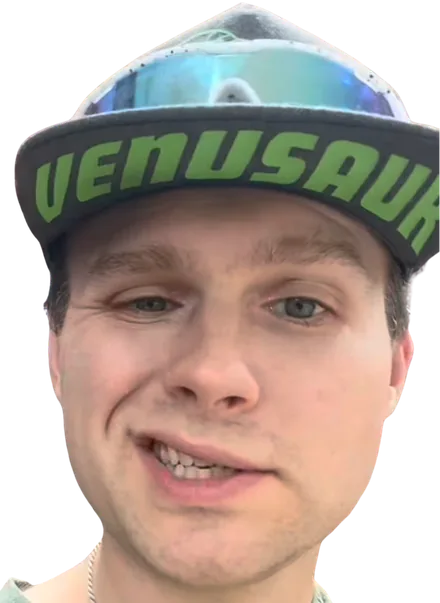
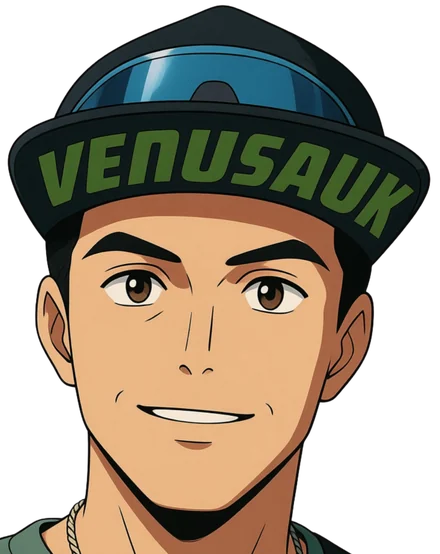
Replace the two character photos with illustrated portraits
Claude-Session: https://claude.ai/code/session_019cwhTVzQYA9Wonu8q4K8cg

diff --git a/web/styles.css b/web/styles.css
@@ -332,8 +332,8 @@ details.points td:last-child { text-align: right; font-weight: 600; }
 .cta svg { width: 18px; height: 18px; fill: none; stroke: currentColor; stroke-width: 2.2; stroke-linecap: round; stroke-linejoin: round; }
 .cta:active { transform: scale(.985); }
 .guide { position: fixed; z-index: 25; left: 50%; bottom: calc(52px + env(safe-area-inset-bottom)); width: min(100%, 640px); height: 290px; transform: translateX(-50%); overflow: hidden; pointer-events: none; }
-.guide img { position: absolute; right: 4px; bottom: -40px; width: 168px; height: auto; transform: translateY(105%) rotate(9deg); transform-origin: 60% 100%; transition: transform .28s cubic-bezier(.5,0,.8,.4); filter: drop-shadow(0 6px 14px rgba(15,17,21,.28)); }
-.guide-say { position: absolute; right: 156px; bottom: 112px; max-width: min(210px, calc(100% - 170px)); margin: 0; padding: 11px 14px 12px; background: var(--ink); color: #fff; border-radius: 16px 16px 4px 16px; font-family: var(--serif); font-style: italic; font-size: 16.5px; line-height: 1.28; opacity: 0; transform: translateY(8px) scale(.94); transform-origin: 100% 100%; transition: opacity .15s, transform .15s; box-shadow: 0 8px 22px -8px rgba(15,17,21,.5); }
+.guide img { position: absolute; right: 2px; bottom: -78px; width: 168px; height: auto; transform: translateY(105%) rotate(9deg); transform-origin: 60% 100%; transition: transform .28s cubic-bezier(.5,0,.8,.4); filter: drop-shadow(0 6px 14px rgba(15,17,21,.28)); }
+.guide-say { position: absolute; right: 176px; bottom: 112px; max-width: min(210px, calc(100% - 188px)); margin: 0; padding: 11px 14px 12px; background: var(--ink); color: #fff; border-radius: 16px 16px 4px 16px; font-family: var(--serif); font-style: italic; font-size: 16.5px; line-height: 1.28; opacity: 0; transform: translateY(8px) scale(.94); transform-origin: 100% 100%; transition: opacity .15s, transform .15s; box-shadow: 0 8px 22px -8px rgba(15,17,21,.5); }
 .guide.on { pointer-events: auto; }
 .guide.on img { transform: translateY(0) rotate(-7deg); transition: transform .42s cubic-bezier(.2,1.5,.4,1); }
 .guide.on .guide-say { opacity: 1; transform: none; transition: opacity .2s .26s, transform .28s .26s cubic-bezier(.2,1.4,.4,1); }
@@ -341,7 +341,7 @@ details.points td:last-child { text-align: right; font-weight: 600; }
 .guide-say b { display: none; }
 .guide.brother img { width: 168px; right: -4px; bottom: -22px; }
 .guide.brother.on img { transform: translateY(0) rotate(-5deg); }
-.guide.brother .guide-say { background: #1F3D27; font-style: normal; font-family: var(--sans); font-weight: 600; font-size: 14.5px; line-height: 1.3; bottom: 150px; right: 150px; }
+.guide.brother .guide-say { background: #1F3D27; font-style: normal; font-family: var(--sans); font-weight: 600; font-size: 14.5px; line-height: 1.3; bottom: 150px; right: 168px; }
 .guide.chromesby img { width: 214px; right: -18px; bottom: -34px; transform-origin: 50% 100%; }
 .guide.chromesby.on img { transform: translateY(0) rotate(-3deg); }
 .guide.chromesby .guide-say { right: 168px; bottom: 122px; max-width: min(196px, calc(100% - 178px)); color: #14161B; font-style: normal; font-family: var(--sans); font-weight: 600; font-size: 14.5px; line-height: 1.3; background: linear-gradient(160deg, #FDFDFE 0%, #C9CED8 28%, #F4F6F9 46%, #A9B0BD 72%, #E6E9EE 100%); box-shadow: inset 0 0 0 1px rgba(255,255,255,.7), 0 0 0 1px #8D94A3, 0 8px 22px -8px rgba(15,17,21,.55); }

diff --git a/web/sw.js b/web/sw.js
@@ -1,5 +1,5 @@
 /* Offline support: the app shell is cached, issue data is fetched fresh when online. */
-var SHELL = 'shell-v20';
+var SHELL = 'shell-v21';
 var FILES = ['./', 'index.html', 'styles.css', 'app.js', 'manifest.webmanifest', 'icons/icon-192.png', 'fonts/archivo.woff', 'fonts/newsreader.woff', 'fonts/newsreader-italic.woff'];
 
 self.addEventListener('install', function (event) {

diff --git a/web/index.html b/web/index.html
@@ -12,7 +12,7 @@
   <meta name="apple-mobile-web-app-capable" content="yes">
   <meta name="apple-mobile-web-app-title" content="Pokédex">
   <link rel="preload" href="fonts/archivo.woff" as="font" type="font/woff" crossorigin>
-  <link rel="stylesheet" href="styles.css?v=19">
+  <link rel="stylesheet" href="styles.css?v=20">
 </head>
 <body>
   <div class="app">
